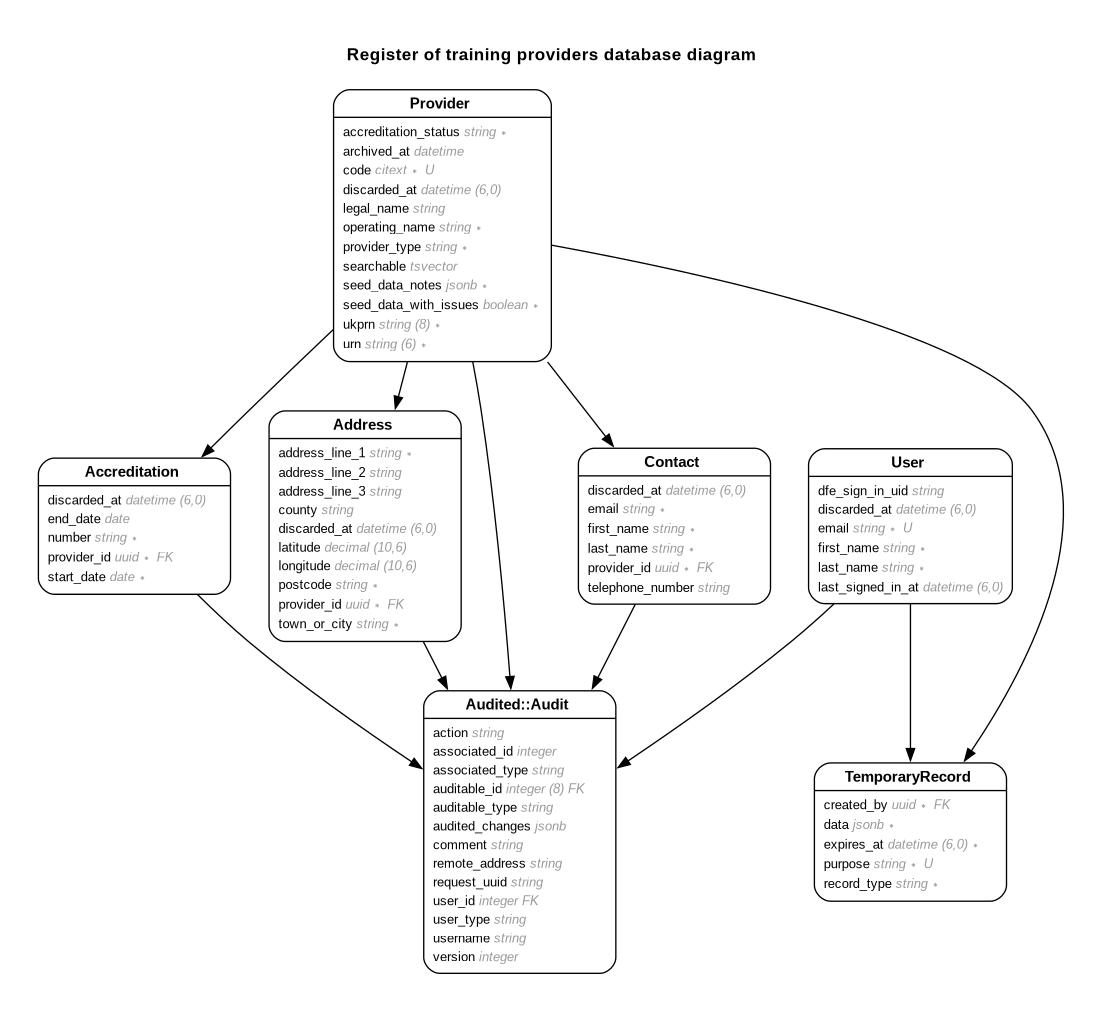
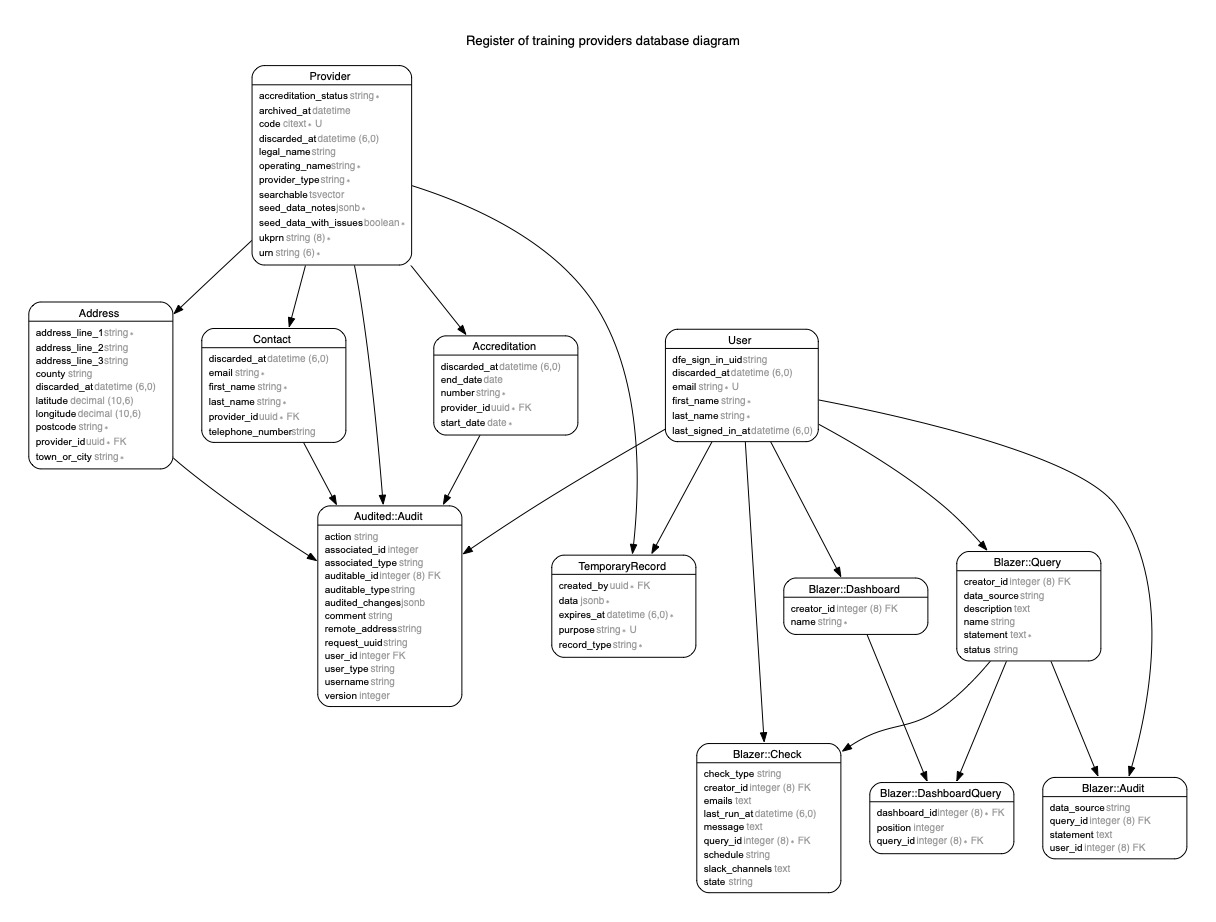
add blazer

diff --git a/db/schema.rb b/db/schema.rb
@@ -10,7 +10,7 @@
 #
 # It's strongly recommended that you check this file into your version control system.
 
-ActiveRecord::Schema[8.0].define(version: 2025_11_04_135956) do
+ActiveRecord::Schema[8.0].define(version: 2025_11_06_145005) do
   # These are extensions that must be enabled in order to support this database
   enable_extension "citext"
   enable_extension "pgcrypto"
@@ -67,6 +67,62 @@ ActiveRecord::Schema[8.0].define(version: 2025_11_04_135956) do
     t.index ["created_at"], name: "index_audits_on_created_at"
     t.index ["request_uuid"], name: "index_audits_on_request_uuid"
     t.index ["user_id", "user_type"], name: "user_index"
+  end
+
+  create_table "blazer_audits", force: :cascade do |t|
+    t.bigint "user_id"
+    t.bigint "query_id"
+    t.text "statement"
+    t.string "data_source"
+    t.datetime "created_at"
+    t.index ["query_id"], name: "index_blazer_audits_on_query_id"
+    t.index ["user_id"], name: "index_blazer_audits_on_user_id"
+  end
+
+  create_table "blazer_checks", force: :cascade do |t|
+    t.bigint "creator_id"
+    t.bigint "query_id"
+    t.string "state"
+    t.string "schedule"
+    t.text "emails"
+    t.text "slack_channels"
+    t.string "check_type"
+    t.text "message"
+    t.datetime "last_run_at"
+    t.datetime "created_at", null: false
+    t.datetime "updated_at", null: false
+    t.index ["creator_id"], name: "index_blazer_checks_on_creator_id"
+    t.index ["query_id"], name: "index_blazer_checks_on_query_id"
+  end
+
+  create_table "blazer_dashboard_queries", force: :cascade do |t|
+    t.bigint "dashboard_id"
+    t.bigint "query_id"
+    t.integer "position"
+    t.datetime "created_at", null: false
+    t.datetime "updated_at", null: false
+    t.index ["dashboard_id"], name: "index_blazer_dashboard_queries_on_dashboard_id"
+    t.index ["query_id"], name: "index_blazer_dashboard_queries_on_query_id"
+  end
+
+  create_table "blazer_dashboards", force: :cascade do |t|
+    t.bigint "creator_id"
+    t.string "name"
+    t.datetime "created_at", null: false
+    t.datetime "updated_at", null: false
+    t.index ["creator_id"], name: "index_blazer_dashboards_on_creator_id"
+  end
+
+  create_table "blazer_queries", force: :cascade do |t|
+    t.bigint "creator_id"
+    t.string "name"
+    t.text "description"
+    t.text "statement"
+    t.string "data_source"
+    t.string "status"
+    t.datetime "created_at", null: false
+    t.datetime "updated_at", null: false
+    t.index ["creator_id"], name: "index_blazer_queries_on_creator_id"
   end
 
   create_table "contacts", id: :uuid, default: -> { "gen_random_uuid()" }, force: :cascade do |t|

diff --git a/db/migrate/20251106145005_install_blazer.rb b/db/migrate/20251106145005_install_blazer.rb
@@ -1,0 +1,47 @@
+class InstallBlazer < ActiveRecord::Migration[8.0]
+  def change
+    create_table :blazer_queries do |t|
+      t.references :creator
+      t.string :name
+      t.text :description
+      t.text :statement
+      t.string :data_source
+      t.string :status
+      t.timestamps null: false
+    end
+
+    create_table :blazer_audits do |t|
+      t.references :user
+      t.references :query
+      t.text :statement
+      t.string :data_source
+      t.datetime :created_at
+    end
+
+    create_table :blazer_dashboards do |t|
+      t.references :creator
+      t.string :name
+      t.timestamps null: false
+    end
+
+    create_table :blazer_dashboard_queries do |t|
+      t.references :dashboard
+      t.references :query
+      t.integer :position
+      t.timestamps null: false
+    end
+
+    create_table :blazer_checks do |t|
+      t.references :creator
+      t.references :query
+      t.string :state
+      t.string :schedule
+      t.text :emails
+      t.text :slack_channels
+      t.string :check_type
+      t.text :message
+      t.datetime :last_run_at
+      t.timestamps null: false
+    end
+  end
+end

diff --git a/config/routes.rb b/config/routes.rb
@@ -34,6 +34,12 @@ Rails.application.routes.draw do
 
   root to: "landing_page#start"
 
+  # System admin routes
+  scope module: :system_admin, path: "system-admin" do
+    mount Blazer::Engine, at: "/blazer"
+    get "/blazer", to: redirect("/sign-in"), status: 302
+  end
+
   get "/cookies", to: "pages#cookies"
   get "/accessibility", to: "pages#accessibility"
   get "/privacy", to: "pages#privacy"
